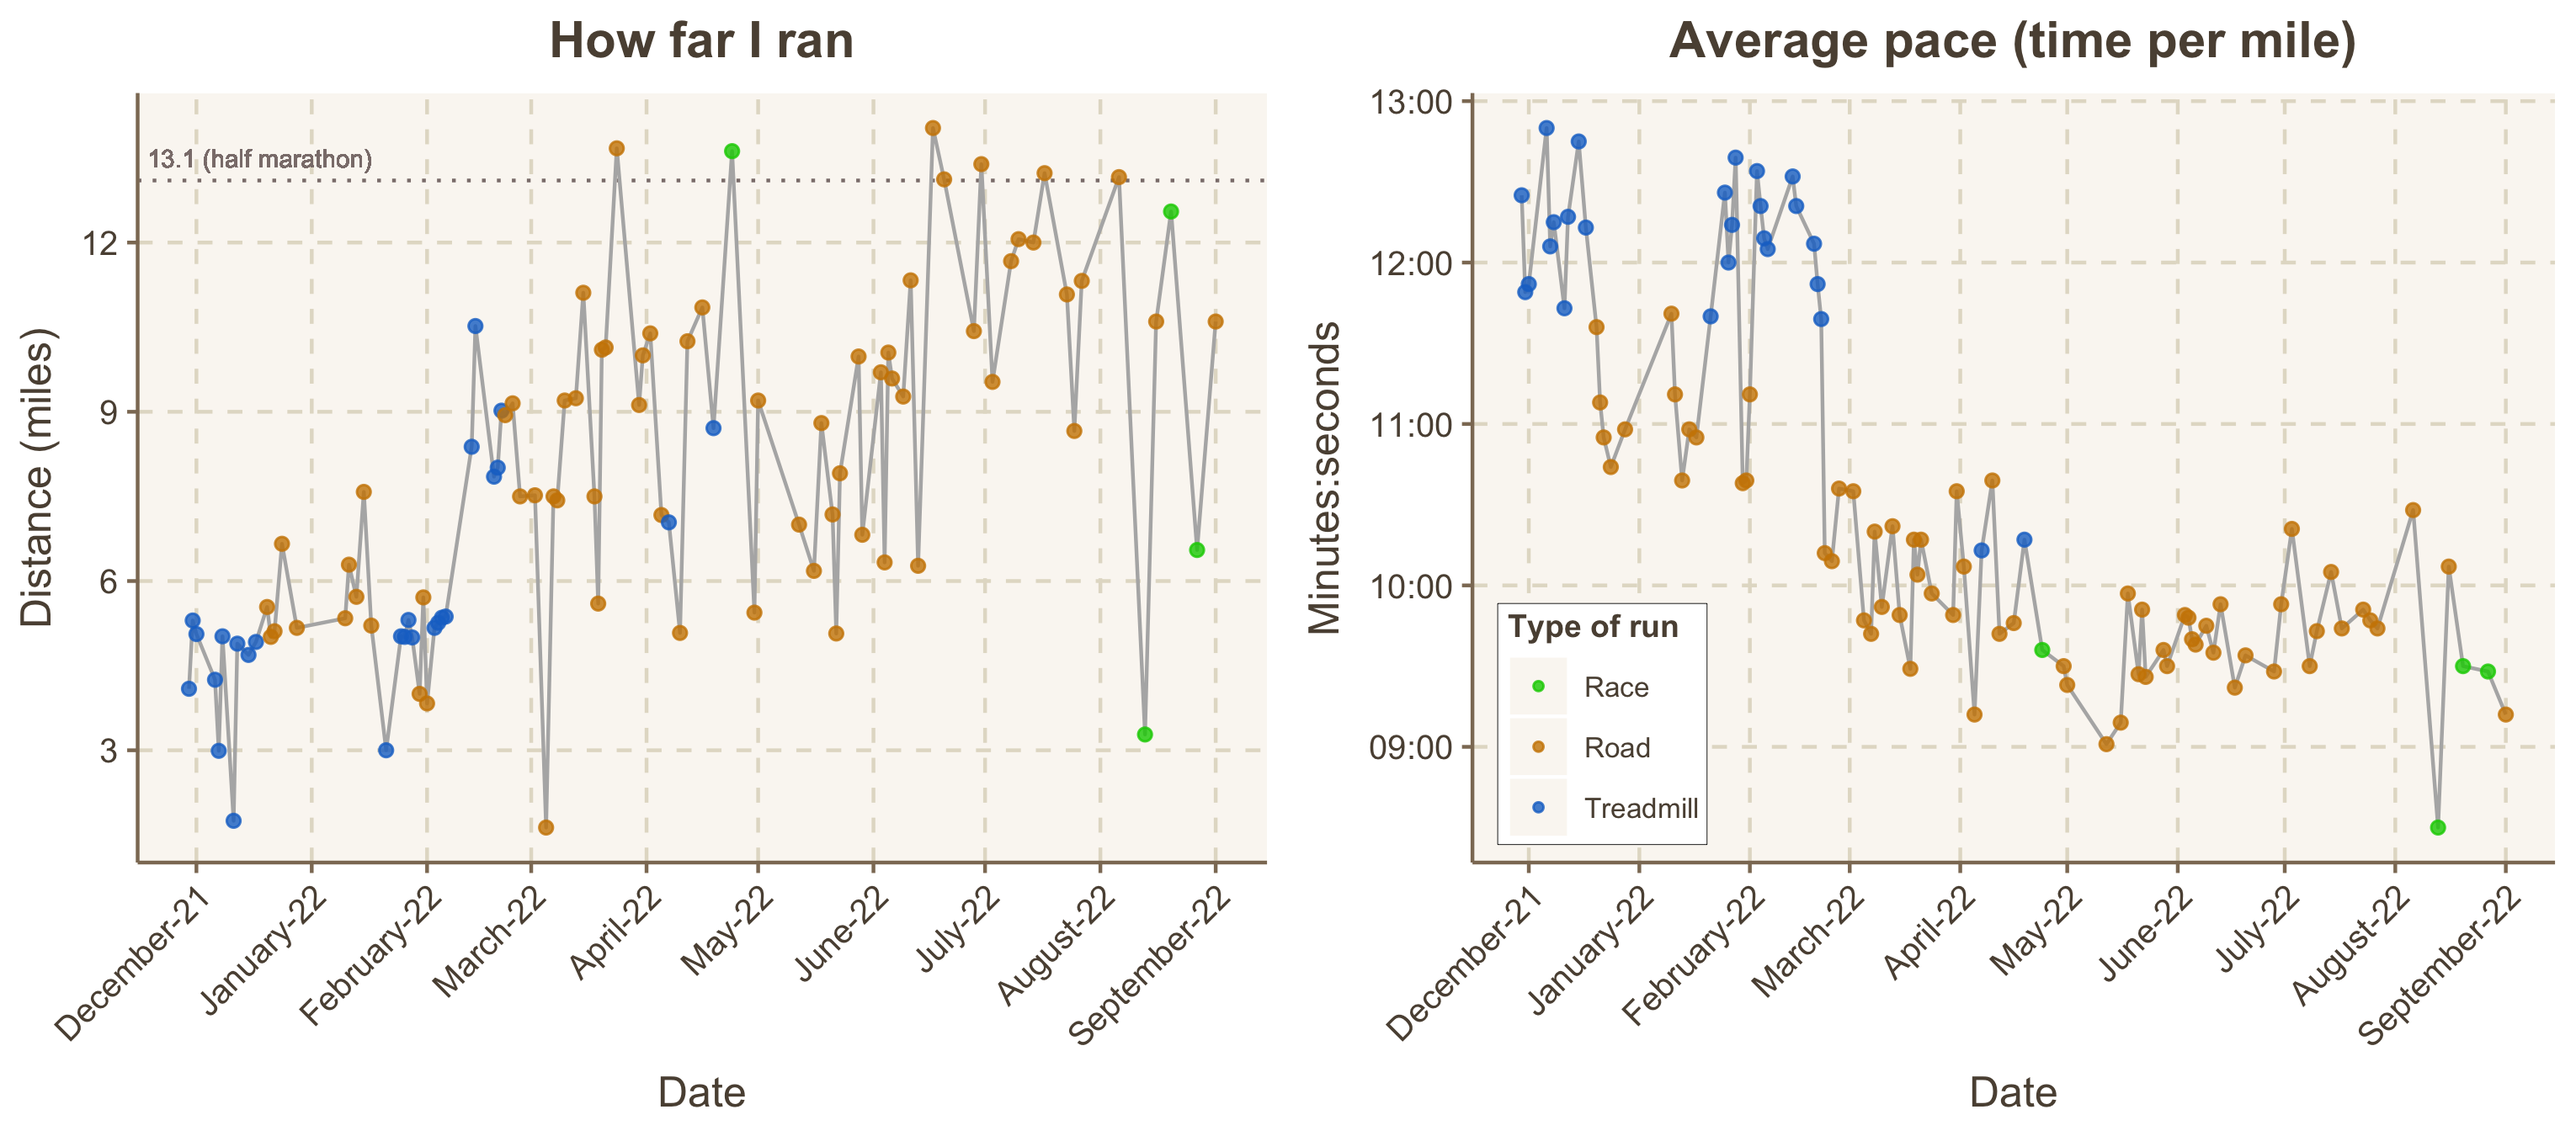
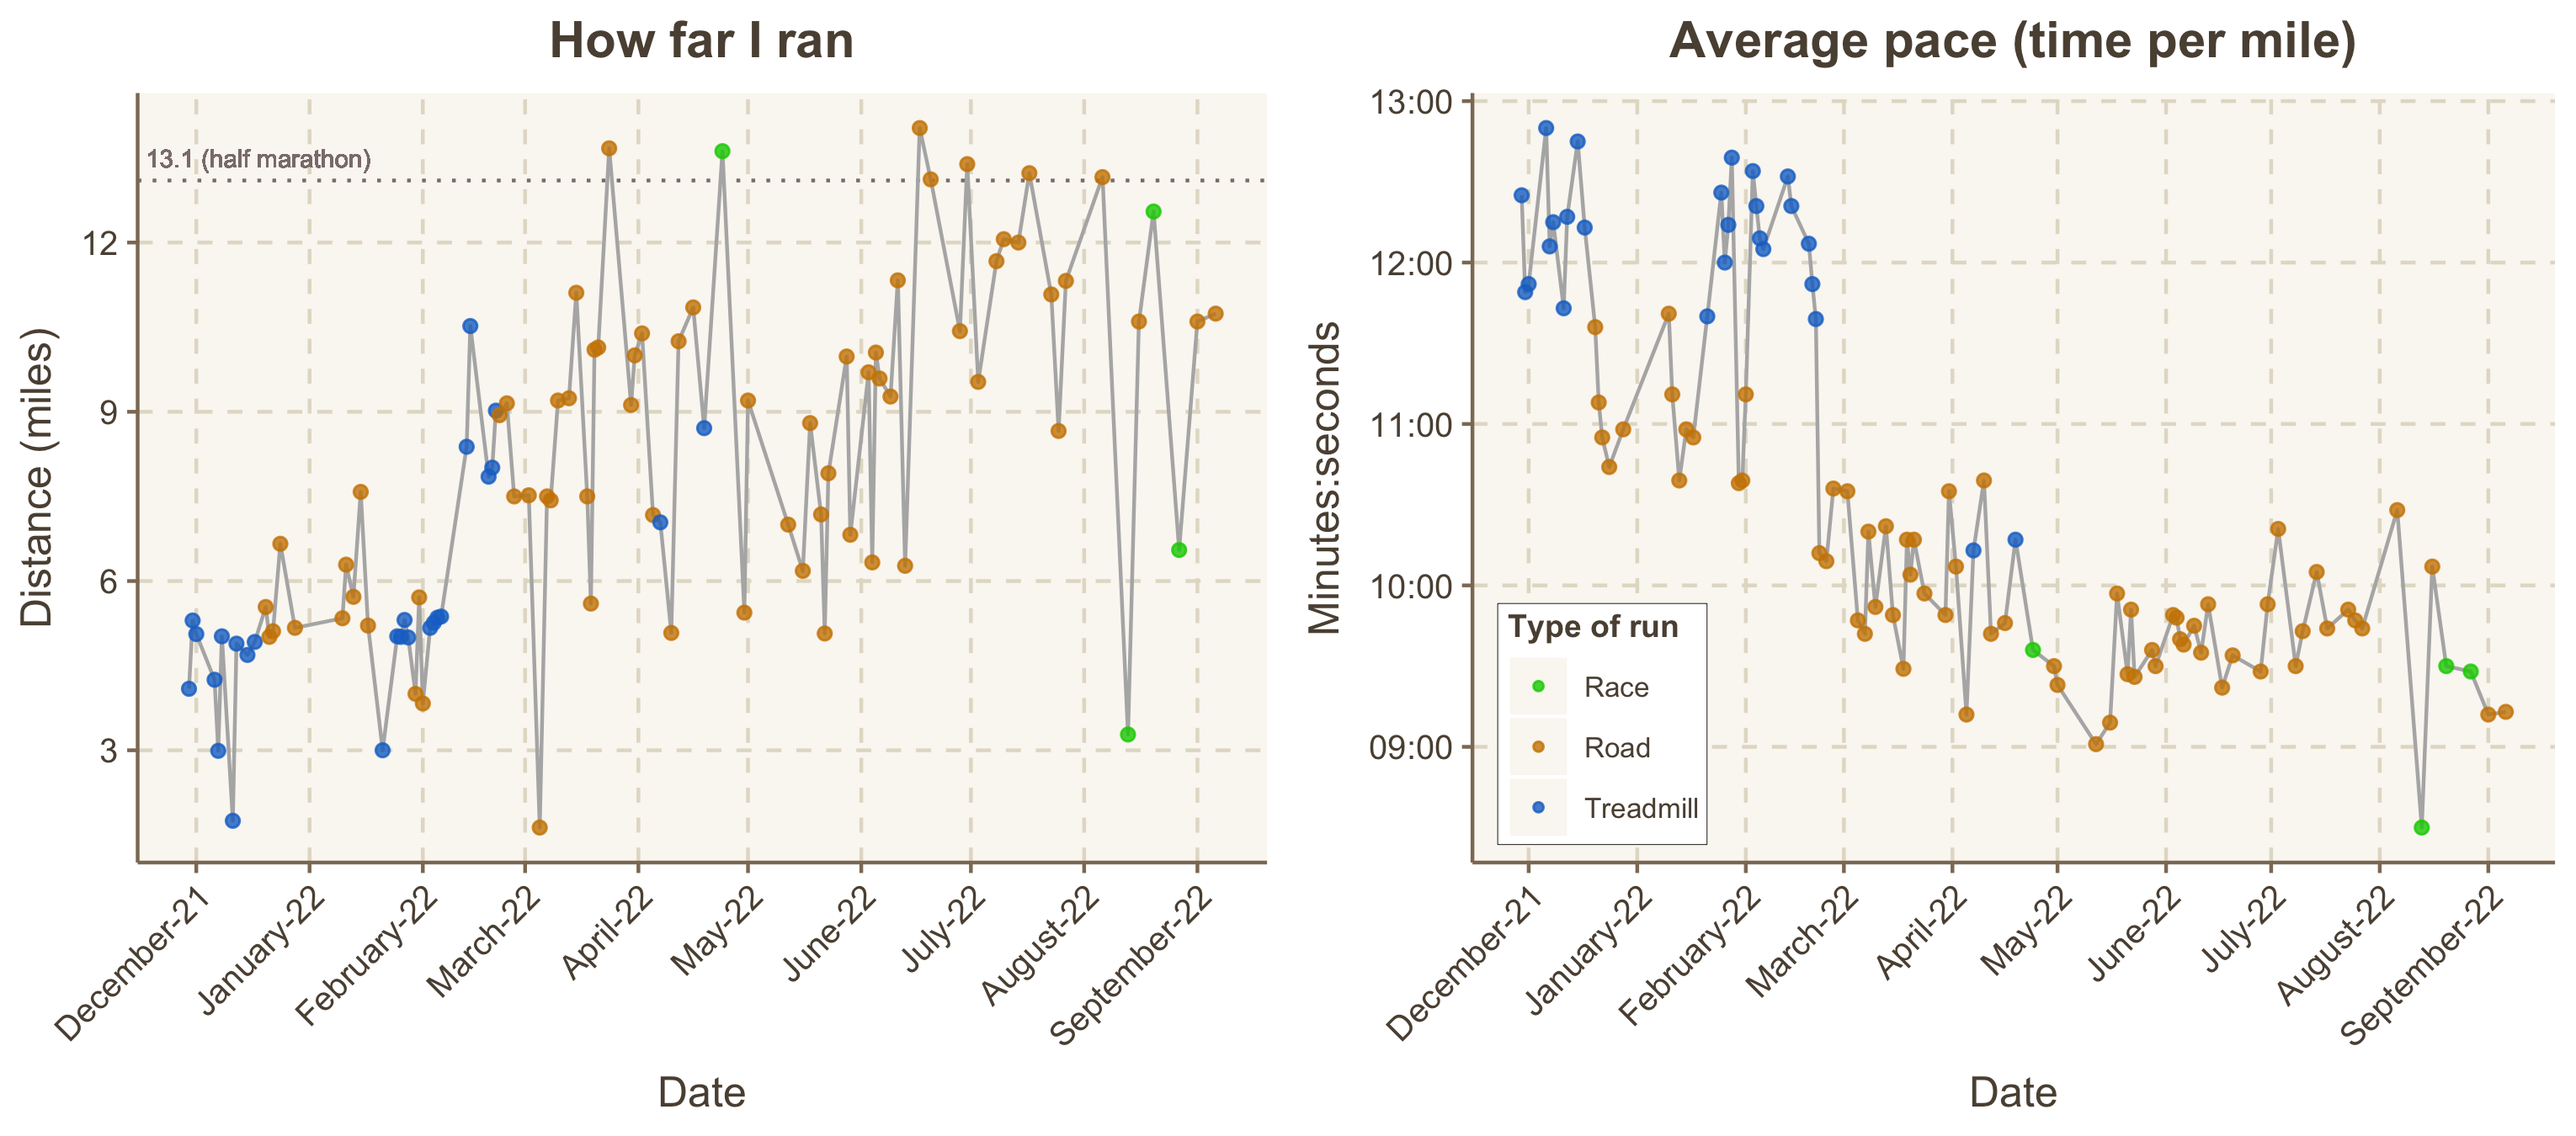
9/6/22

diff --git a/README.md b/README.md
@@ -25,7 +25,7 @@ ggarrange(p1, p2, nrow=1)
 sum(runningData$Miles)
 ```
 
-    ## [1] 754.24
+    ## [1] 764.98
 
 Average distance during the last 10 runs:
 
@@ -33,4 +33,4 @@ Average distance during the last 10 runs:
 mean(tail(runningData$Miles, 10))
 ```
 
-    ## [1] 10.103
+    ## [1] 9.854
